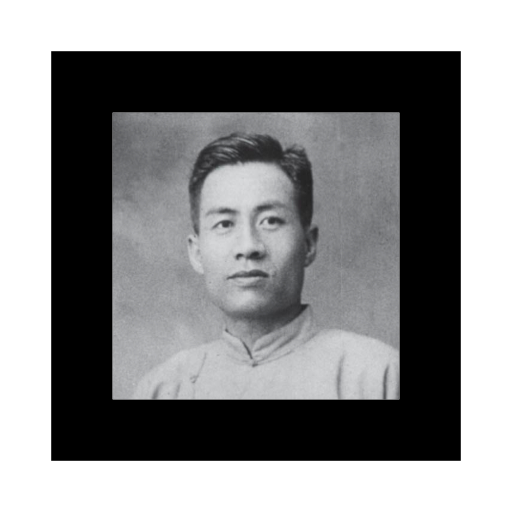
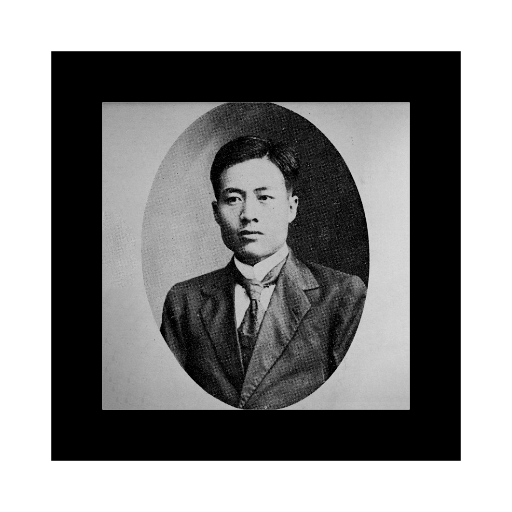
patt

Changed region(s): [[0.1875, 0.1875, 0.8125, 0.8125]]

diff --git a/DDD_webAR_Marker/index.html b/DDD_webAR_Marker/index.html
@@ -8,7 +8,7 @@
   </head>
   <body style='margin : 0px; overflow: hidden;'>
     <a-scene embedded arjs='sourceType: webcam; debugUIEnabled: false;'>
-      <a-marker type='pattern' url='assets/pattern-Chiang_Wei-shui_photo2.patt'>
+      <a-marker type='pattern' url='assets/pattern-Chiang_Wei-shui_photo.patt'>
         <a-entity position='-1 0 -3' rotation="0 0 0" gltf-model="url(assets/scene.gltf)"></a-entity>
       </a-marker>
     </a-scene>
